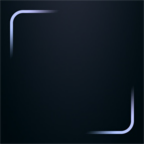
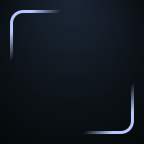
feat: Generate button styles programmatically using canvas

diff --git a/scripts/generate-button-styles.ts b/scripts/generate-button-styles.ts
@@ -1,0 +1,181 @@
+/**
+ * This script generates various button style images using canvas
+ *
+ * Usage:
+ *   bun generate:button-styles
+ */
+
+import { CanvasRenderingContext2D, createCanvas } from 'canvas';
+import { writeFileSync } from 'fs';
+
+const BUTTON_SIZE = 144;
+
+function createCanvasBackground(
+  color: string,
+  size: number = BUTTON_SIZE,
+): CanvasRenderingContext2D {
+  const canvas = createCanvas(size, size);
+  const ctx = canvas.getContext('2d');
+
+  // Apply the color
+  ctx.fillStyle = color;
+  ctx.fillRect(0, 0, size, size);
+
+  return ctx;
+}
+
+async function saveImage(ctx: CanvasRenderingContext2D, filename: string) {
+  const imageData = ctx.canvas.toBuffer('image/png');
+  writeFileSync(filename, imageData);
+}
+
+function generateFillButton(
+  ctx: CanvasRenderingContext2D,
+  size: number,
+  color: string,
+): CanvasRenderingContext2D {
+  ctx.fillStyle = color;
+  ctx.fillRect(0, 0, size, size);
+
+  return ctx;
+}
+
+function generateBasicGradientButton(
+  ctx: CanvasRenderingContext2D,
+  size: number,
+): CanvasRenderingContext2D {
+  // Create radial gradient from top edge center
+  const gradient = ctx.createRadialGradient(size / 2, 0, 0, size / 2, size / 2, 120);
+  gradient.addColorStop(0, '#1a2535'); // Darker blue-gray at top
+  gradient.addColorStop(0.6, '#0d1419'); // Very dark blue
+  gradient.addColorStop(1, '#050a0d'); // Almost black edges
+
+  ctx.fillStyle = gradient;
+  ctx.fillRect(0, 0, size, size);
+
+  // Add subtle vignette effect
+  const vignette = ctx.createRadialGradient(size / 2, 0, 40, size / 2, size / 2, 120);
+  vignette.addColorStop(0, 'rgba(0, 0, 0, 0)');
+  vignette.addColorStop(1, 'rgba(0, 0, 0, 0.4)');
+
+  ctx.fillStyle = vignette;
+  ctx.fillRect(0, 0, size, size);
+
+  return ctx;
+}
+
+function generateBorderButton(
+  ctx: CanvasRenderingContext2D,
+  size: number,
+): CanvasRenderingContext2D {
+  // First, draw the basic gradient background
+  generateBasicGradientButton(ctx, size);
+
+  // Then, draw the border
+  const offset = size * 0.08; // 10% offset from edges
+  const borderSize = size - offset * 2;
+  const cornerRadius = size * 0.08; // Slightly rounded corners
+  const lineWidth = 3;
+
+  // Create the diagonal gradient for the stroke
+  // This is the core trick: Color -> Transparent -> Color
+  // It runs from Top-Left (0,0) to Bottom-Right (size, size)
+  const strokeGradient = ctx.createLinearGradient(0, 0, size, size);
+
+  // Define the specific light blue/lavender neon color
+  const neonColor = 'rgba(180, 200, 255, 1)';
+  const transparent = 'rgba(180, 200, 255, 0)';
+
+  // Top-Left Corner logic
+  strokeGradient.addColorStop(0.0, neonColor); // Start solid
+  strokeGradient.addColorStop(0.15, neonColor); // Keep solid through the corner bend
+  strokeGradient.addColorStop(0.25, transparent); // Fade out along the arms
+
+  // Center (Invisible)
+  strokeGradient.addColorStop(0.5, transparent);
+
+  // Bottom-Right Corner logic
+  strokeGradient.addColorStop(0.75, transparent); // Start fading in
+  strokeGradient.addColorStop(0.85, neonColor); // Solid at the corner bend
+  strokeGradient.addColorStop(1.0, neonColor); // Solid to the end
+
+  // Set stroke properties
+  ctx.lineWidth = lineWidth;
+  ctx.lineCap = 'round'; // Makes the faded tips look smoother
+  ctx.strokeStyle = strokeGradient;
+
+  // Draw the rounded rectangle
+  ctx.beginPath();
+  ctx.roundRect(offset, offset, borderSize, borderSize, cornerRadius);
+  ctx.stroke();
+
+  return ctx;
+}
+
+function generateRainbowButton(ctx: CanvasRenderingContext2D, size: number) {
+  const borderRadius = 12;
+  const innerPadding = size * 0.08;
+
+  // Circle parameters
+  const centerX = size / 2;
+  const centerY = size / 2;
+  const radius = size * 2;
+
+  // Draw rainbow using many thin triangular segments with smooth blending
+  const segments = 720; // More segments for smoother appearance
+
+  // Enable antialiasing for smoother rendering
+  ctx.imageSmoothingEnabled = true;
+
+  for (let i = 0; i < segments; i++) {
+    const angle1 = (i / segments) * Math.PI * 2;
+    const angle2 = ((i + 1) / segments) * Math.PI * 2;
+    // Offset hue by 105 degrees so green (120°) appears in top-left corner (225°)
+    const hue = ((i / segments) * 360 - 105) % 360;
+
+    ctx.fillStyle = `hsl(${hue}, 100%, 60%)`;
+
+    // Draw a triangular segment from center
+    ctx.beginPath();
+    ctx.moveTo(centerX, centerY);
+    ctx.arc(centerX, centerY, radius, angle1, angle2);
+    ctx.lineTo(centerX, centerY);
+    ctx.closePath();
+    ctx.fill();
+  }
+
+  ctx.imageSmoothingEnabled = false;
+
+  // Draw grey rounded square inside
+  ctx.fillStyle = '#07060D';
+  ctx.beginPath();
+  ctx.roundRect(
+    innerPadding,
+    innerPadding,
+    size - innerPadding * 2,
+    size - innerPadding * 2,
+    borderRadius,
+  );
+  ctx.fill();
+
+  return ctx;
+}
+
+// fill color button style
+const fillCtx = createCanvasBackground('#C24965', BUTTON_SIZE);
+saveImage(fillCtx, 'button-styles/fill.png');
+
+// basic gradient button style
+const basicCtx = createCanvasBackground('black', BUTTON_SIZE);
+generateBasicGradientButton(basicCtx, BUTTON_SIZE);
+saveImage(basicCtx, 'button-styles/basic.png');
+
+// gradient + border button style
+const borderCtx = createCanvasBackground('black', BUTTON_SIZE);
+generateBorderButton(borderCtx, BUTTON_SIZE);
+saveImage(borderCtx, 'button-styles/border.png');
+
+// rainbow button style
+const rainbowCtx = createCanvasBackground('black', BUTTON_SIZE);
+generateRainbowButton(rainbowCtx, BUTTON_SIZE);
+saveImage(rainbowCtx, 'button-styles/rainbow.png');

diff --git a/src/utils/image-utils.ts b/src/utils/image-utils.ts
@@ -7,7 +7,7 @@ export async function generateImage(color: string): Promise<Buffer> {
   const canvas = createCanvas(144, 144);
   const ctx = canvas.getContext('2d');
 
-  // Parse and apply the color
+  // Apply the background color
   ctx.fillStyle = color;
   ctx.fillRect(0, 0, 144, 144);
 

diff --git a/README.md b/README.md
@@ -63,12 +63,12 @@ bun run generate \
 
 Button styles are defined in [button-styles/](button-styles/):
 
-| Preview                                | Style     | Description                                                     |
-| -------------------------------------- | --------- | --------------------------------------------------------------- |
-| ![basic](button-styles/basic.png)      | `basic`   | Button with a filled dark background color                      |
-| ![border](button-styles/border.png)    | `border`  | Button with a border around the label                           |
-| ![rainbow](button-styles/rainbow.webp) | `rainbow` | Button with a rainbow border                                    |
-| _single color_                         | `fill`    | Button with a filled background color (defined by `--bg-color`) |
+| Preview                               | Style     | Description                                                     |
+| ------------------------------------- | --------- | --------------------------------------------------------------- |
+| ![basic](button-styles/basic.png)     | `basic`   | Button with a dark gradient background color                    |
+| ![border](button-styles/border.png)   | `border`  | Button with a border around the label                           |
+| ![rainbow](button-styles/rainbow.png) | `rainbow` | Button with a rainbow border                                    |
+| ![fill](button-styles/fill.png)       | `fill`    | Button with a filled background color (defined by `--bg-color`) |
 
 ## Screenshots
 
@@ -97,4 +97,16 @@ To test:
 
 ```shell
 bun test
+```
+
+To regenerate example profiles:
+
+```shell
+bun run generate:examples
+```
+
+To generate button style images:
+
+```shell
+bun run generate:button-styles
 ```
